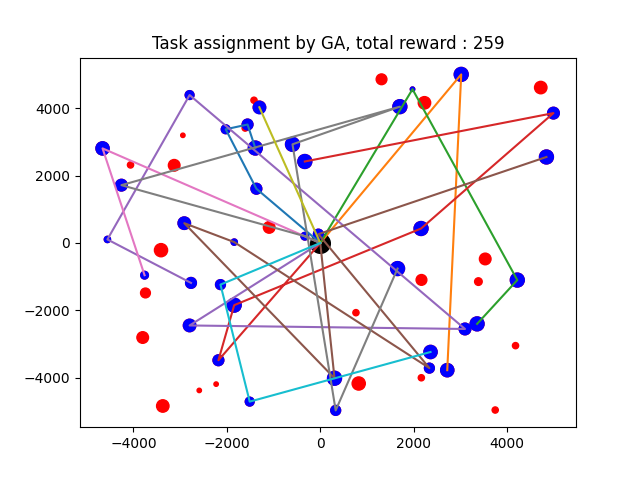
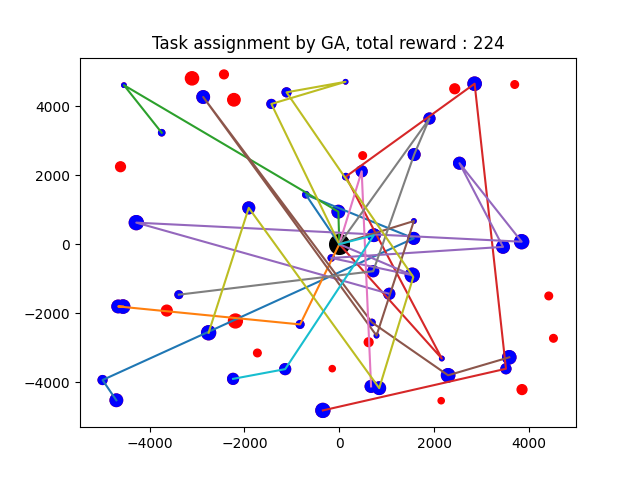
experimental version

diff --git a/env_offline.py b/env_offline.py
@@ -33,6 +33,7 @@ class Env_offline():
         self.repeat_cost = repeat_cost
         self.end = False
         self.assignment = [[] for i in range(vehicle_num)]
+        self.vehicles_success_rate = np.zeros(vehicle_num)
         self.task_generator()
         self.target_num = target_num
         
@@ -40,6 +41,7 @@ class Env_offline():
         for i in range(self.vehicles_speed.shape[0]):
             choose = random.randint(0,2)
             self.vehicles_speed[i] = self.speed_range[choose]
+            self.vehicles_success_rate[i] = 0.9 + np.random.rand()/10
         for i in range(self.targets.shape[0]-1):
             self.targets[i+1,0] = random.randint(1,self.map_size) - 0.5*self.map_size # x position
             self.targets[i+1,1] = random.randint(1,self.map_size) - 0.5*self.map_size # y position
@@ -84,16 +86,16 @@ class Env_offline():
             self.end = True
         
     def run(self, assignment, algorithm, play, rond):
-        print("Offline")
+        # print("Offline")
         self.assignment = assignment
         self.algorithm = algorithm
         self.play = play
         self.rond = rond
         self.get_total_reward()
-        print("assignment: ", self.assignment)
-        print("total rewards: ", self.total_reward)
-        if self.visualized:
-            self.visualize()        
+        # print("assignment: ", self.assignment)
+        # print("total rewards: ", self.total_reward)
+        # if self.visualized:
+        #     self.visualize()        
             
     def reset(self):
         self.vehicles_position = np.zeros(self.vehicles_position.shape[0],dtype=np.int32)
@@ -108,7 +110,9 @@ class Env_offline():
             speed = self.vehicles_speed[i]
             for j in range(len(self.assignment[i])):
                 position = self.targets[self.assignment[i][j],:4]
-                self.total_reward = self.total_reward + position[2]
+                success_check = np.random.rand()
+                if success_check < self.vehicles_success_rate[i]:
+                    self.total_reward = self.total_reward + position[2]
                 if j == 0:
                     self.vehicles_lefttime[i] = self.vehicles_lefttime[i] - np.linalg.norm(position[:2]) / speed - position[3]
                 else:

diff --git a/experimemnt.py b/experimemnt.py
@@ -10,6 +10,8 @@ from pso import PSO
 from om import OM
 from env_online import Env_online
 from env_offline import Env_offline
+from tqdm import tqdm
+import time
 
 def evaluate(vehicle_num, target_num, map_size):
     if vehicle_num==5:
@@ -27,17 +29,34 @@ def evaluate(vehicle_num, target_num, map_size):
     
 if __name__=='__main__':
     # small scale
-    # evaluate(10,60,1e4)
+    # evaluate(5,30,5e3)
     # # medium scale
     # evaluate(10,60,1e4)
     # # large scale
     # evaluate(15,90,1.5e4)
-    env_online = Env_online(10,60,1e4,task_appear_rate=0.5)
-    env_online.run()
-    env_offline = Env_offline(10,60,1e4)
-    env_offline.time_lim = env_online.time_lim
-    env_offline.task_inheritation(env_online.targets,env_online.vehicle_speed)
-    ga = GA(10,env_offline.vehicles_speed,env_offline.target_num,env_offline.targets,env_offline.time_lim)
-    ga_result = ga.run()
-    ga_task_assignmet = ga_result[0]
-    env_offline.run(ga_task_assignmet,'GA',0,0)
+    count_offline = 0
+    count_online = 0
+    time_offline = 0
+    time_online = 0
+    for i in tqdm (range (50), desc="Progress..."):
+        env_online = Env_online(15,90,1.5e4,task_appear_rate=0.5)
+        om_result = env_online.run()
+        env_offline = Env_offline(15,90,1.5e4)
+        env_offline.time_lim = env_online.time_lim
+        env_offline.task_inheritation(env_online.targets,env_online.vehicle_speed)
+        # GA = GA(5,env_offline.vehicles_speed,env_offline.target_num,env_offline.targets,env_offline.time_lim)
+        pso = PSO(15,env_offline.target_num ,env_offline.targets,env_offline.vehicles_speed,env_offline.time_lim)
+        ga_result = pso.run()
+        ga_task_assignmet = ga_result[0]
+        env_offline.run(ga_task_assignmet,'GA',0,0)
+        time_online += om_result[1]
+        time_offline += ga_result[1]
+        count_online += om_result[0]
+        count_offline += env_offline.total_reward
+    print("total time Online: ", time_online)
+    print("total time Offline: ", time_offline)
+    print("total reward Online: ", count_online)
+    print("total reward Offline: ", count_offline)
+    print("ratio: ", count_online/count_offline)
+
+

diff --git a/env_online.py b/env_online.py
@@ -15,8 +15,8 @@ class Env_online():
         self.targets_num = target_num
         self.target_appear_rate = task_appear_rate # [0.5,0.75,1]
         self.map_size = map_size
-        self.time_lim = 1000
-        # self.time_lim = self.map_size / 15 # speed range [10,15,20]
+        # self.time_lim = 1000
+        self.time_lim = self.map_size / 15 # speed range [10,15,20]
         self.time_left = self.time_lim
         self.total_reward = 0
         self.time = 0
@@ -56,11 +56,12 @@ class Env_online():
         end_time = time.time()
         # print("time_delay", self.task_delay)
         # print("time_left", self.time_left)
-        print("assignment", self.assignment)
-        # print('targets_value',self.targets_value)
-        print("total rewards", self.total_reward)
-        # print("vehicals left time: ", om.vehicles_lefttime)
-        print("Online matching time", end_time-start_time)
+        # print("assignment", self.assignment)
+        # # print('targets_value',self.targets_value)
+        # print("total rewards", self.total_reward)
+        # # print("vehicals left time: ", om.vehicles_lefttime)
+        # print("Online matching time", end_time-start_time)
+        return self.total_reward, end_time-start_time
 
             
     def reset(self):

diff --git a/pso.py b/pso.py
@@ -349,7 +349,7 @@ class PSO():
     # ---------------------Main----------------------------------------
 
     def run(self):
-        print("PSO start, pid: %s" % os.getpid())
+        # print("PSO start, pid: %s" % os.getpid())
         start_time = time.time()
         self.fun_get_initial_parameter()
         self.init_Population()
@@ -357,8 +357,8 @@ class PSO():
         end_time = time.time()
         #self.cal_time  = end_time - start_time
         #self.task_assignment = self.uav_best
-        print("PSO result:", self.uav_best)
-        print("PSO time:", end_time - start_time)
+        # print("PSO result:", self.uav_best)
+        # print("PSO time:", end_time - start_time)
         return self.uav_best, end_time - start_time
         
 

diff --git a/ga.py b/ga.py
@@ -170,6 +170,6 @@ class GA():
                 pre = seq[post]
                 post += 1
         end_time = time.time()
-        print("GA time:", end_time - start_time)
+        # print("GA time:", end_time - start_time)
         return task_assignment, end_time - start_time
 
